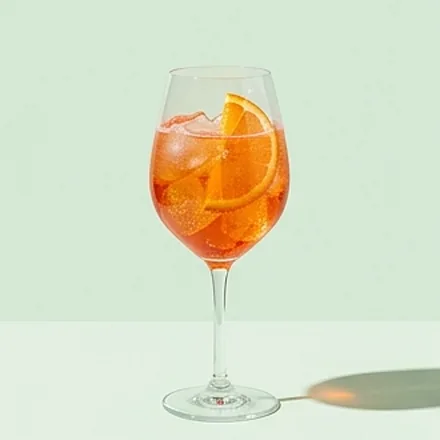
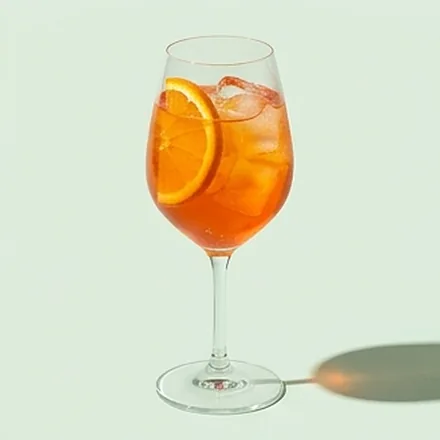
Bar : photos de 41 cocktails de la deuxième vague, 4 photos refaites
Planches Gemini CK9 à CK13 découpées en 440 px. Spritz, Hugo, Kir
royal et French 75 remplacés (fond uni, sans ligne de table).
Restent CK6 à CK8 (27 cocktails, visuel 3D en attendant).

Claude-Session: https://claude.ai/code/session_0199DjUcCmcvnTNM66jw9ZQ5

diff --git a/js/data/cocktails.plus2.js b/js/data/cocktails.plus2.js
@@ -596,4 +596,51 @@
     steps: ['Tequila et liqueur de café sur glace.', 'Faire flotter la crème par-dessus, remuer au moment de boire.'],
     astuce: 'Crème à peine fouettée : elle flotte au lieu de couler.',
     alcool: 'tequila', humeur: ['gourmand'] });
+
+  /* Photos de la deuxième vague (planches Gemini CK6 à CK13). Un
+     cocktail absent de la liste garde son visuel 3D en attendant. */
+  const FOTOS = [
+    'suffering-bastard',
+    'army-navy',
+    'pink-lady',
+    'oaxaca-old-fashioned',
+    'white-bull',
+    'stinger',
+    'grasshopper',
+    'aperol-sour',
+    'caipirinha-fraise',
+    'kentucky-buck',
+    'ward-eight',
+    'bourbon-flip',
+    'margarita-mangue',
+    'tequila-negroni',
+    'vesper',
+    'champagne-cocktail',
+    'rossini',
+    'brandy-alexander',
+    'batida-coco',
+    'batida-maracuja',
+    'pisco-punch',
+    'chilcano',
+    'campari-soda',
+    'singapore-sling',
+    'saturn',
+    'bees-knees',
+    'gin-basil-smash',
+    'southside',
+    'corpse-reviver',
+    'ramos-gin-fizz',
+    'alexander',
+    'martinez',
+    'rosita',
+    'brave-bull',
+    'mexican-coffee',
+    'batanga',
+    'cantarito',
+    'matador',
+    'siesta',
+    'picante',
+    'tequila-old-fashioned'
+  ];
+  COCKTAILS.forEach((c) => { if (!IMG['ck-' + c.id] && FOTOS.indexOf(c.id) >= 0) IMG['ck-' + c.id] = 'assets/ck-' + c.id + '.webp'; });
 })();

diff --git a/sw.js b/sw.js
@@ -11,7 +11,7 @@
    Les appels aux API (Gemini, Supabase, météo, Open Food Facts)
    ne sont jamais mis en cache.
    ============================================================ */
-const VERSION = 'ever-v11.5.0';
+const VERSION = 'ever-v11.5.1';
 const SHELL = VERSION + '-shell';
 const MEDIA = VERSION + '-media';
 
